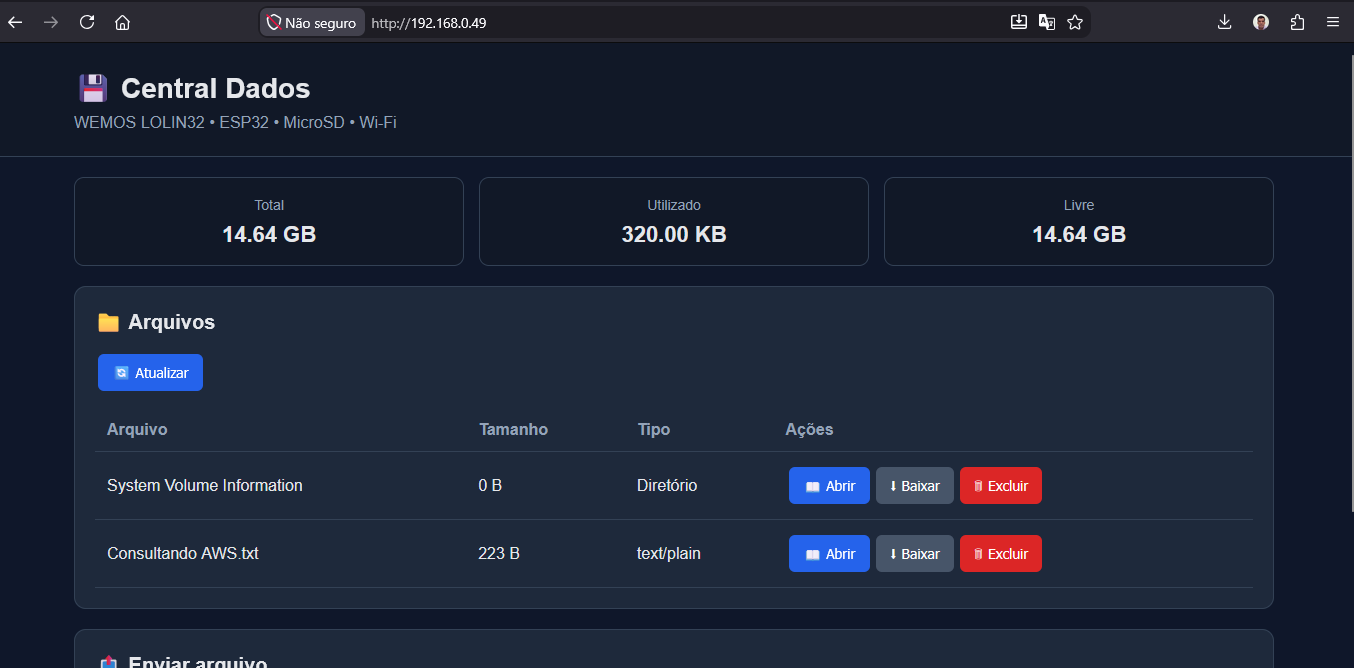
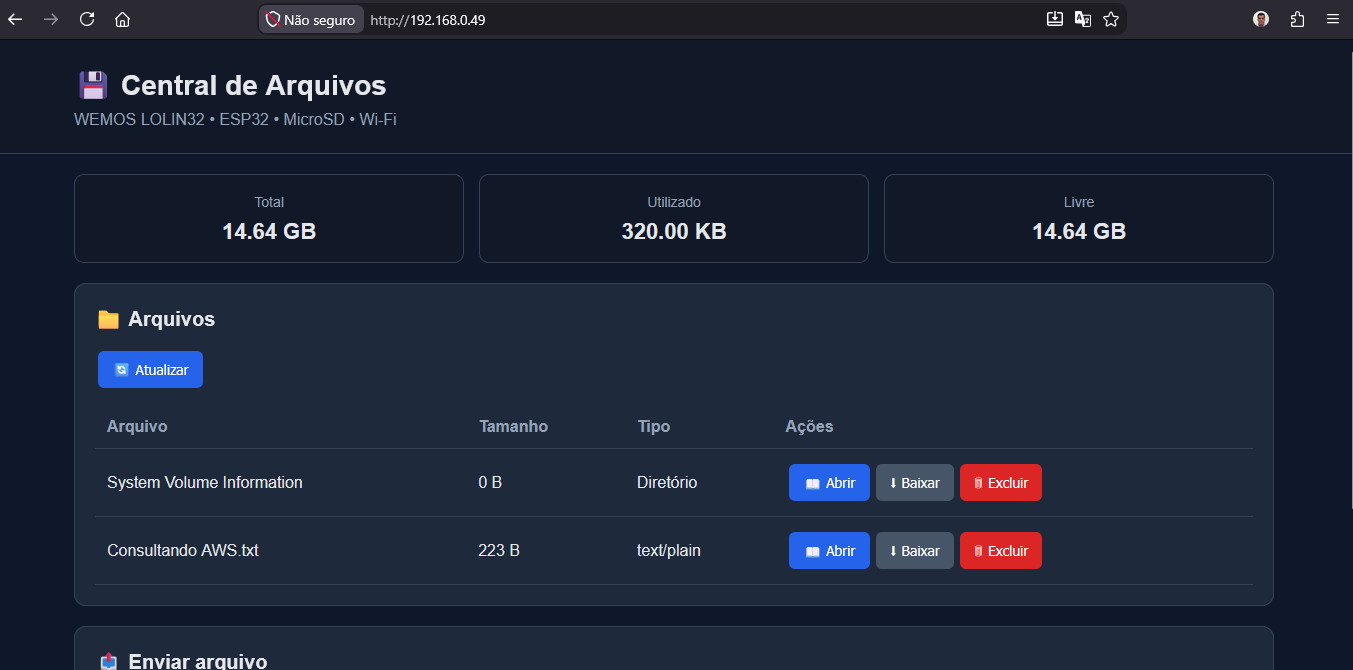
Update project

diff --git a/src/web_server.cpp b/src/web_server.cpp
@@ -3,7 +3,7 @@
                        WEB SERVER
 ====================================================================
 
-Central Dados
+Central de Arquivos
 WEMOS LOLIN32 / ESP32
 MicroSD + Wi-Fi
 
@@ -62,7 +62,7 @@ const char WEB_PAGE[] PROGMEM = R"rawliteral(
     content="width=device-width, initial-scale=1.0"
 >
 
-<title>Central de Dados</title>
+<title>Central de Arquivos</title>
 
 <style>
 
@@ -368,7 +368,7 @@ textarea {
 
 <div class="container">
 
-<h1>💾 Central Dados</h1>
+<h1>💾 Central de Arquivos</h1>
 
 <p>
 WEMOS LOLIN32 • ESP32 • MicroSD • Wi-Fi

diff --git a/include/web_page.h b/include/web_page.h
@@ -23,7 +23,7 @@ const char WEB_PAGE[] PROGMEM = R"rawliteral(
     content="width=device-width, initial-scale=1.0"
 >
 
-<title>Central de Dados</title>
+<title>Central de Arquivos</title>
 
 
 <style>
@@ -362,7 +362,7 @@ input[type="file"] {
 
 <header>
 
-    <h1>💾 Central de Dados</h1>
+    <h1>💾 Central de Arquivos</h1>
 
     <p>
         WEMOS LOLIN32 • ESP32 • MicroSD • Wi-Fi

diff --git a/Readme.md b/Readme.md
@@ -1,6 +1,6 @@
-# 💾 Central Dados
+# 💾 Central de Arquivos
 
-> **Central de dados embarcada baseada em ESP32 + MicroSD + Wi-Fi, com gerenciamento de arquivos através de uma interface Web.**
+> **Central de Arquivos embarcada baseada em ESP32 + MicroSD + Wi-Fi, com gerenciamento de arquivos através de uma interface Web.**
 
 ![ESP32](https://img.shields.io/badge/ESP32-Embedded-red?style=for-the-badge\&logo=espressif)
 ![Arduino](https://img.shields.io/badge/Arduino-Framework-00979D?style=for-the-badge\&logo=arduino)
@@ -39,7 +39,7 @@
 
 # 🚀 Sobre o projeto
 
-O **Central de Dados** é um projeto de Internet das Coisas (IoT) desenvolvido sobre a plataforma **ESP32**, com o objetivo de transformar o microcontrolador em uma pequena central embarcada para armazenamento e gerenciamento de dados.
+O **Central de Arquivos** é um projeto de Internet das Coisas (IoT) desenvolvido sobre a plataforma **ESP32**, com o objetivo de transformar o microcontrolador em uma pequena central embarcada para armazenamento e gerenciamento de arquivos.
 
 O dispositivo utiliza um **cartão MicroSD** como unidade de armazenamento e disponibiliza uma **interface Web responsiva**, acessível através da rede Wi-Fi.
 
